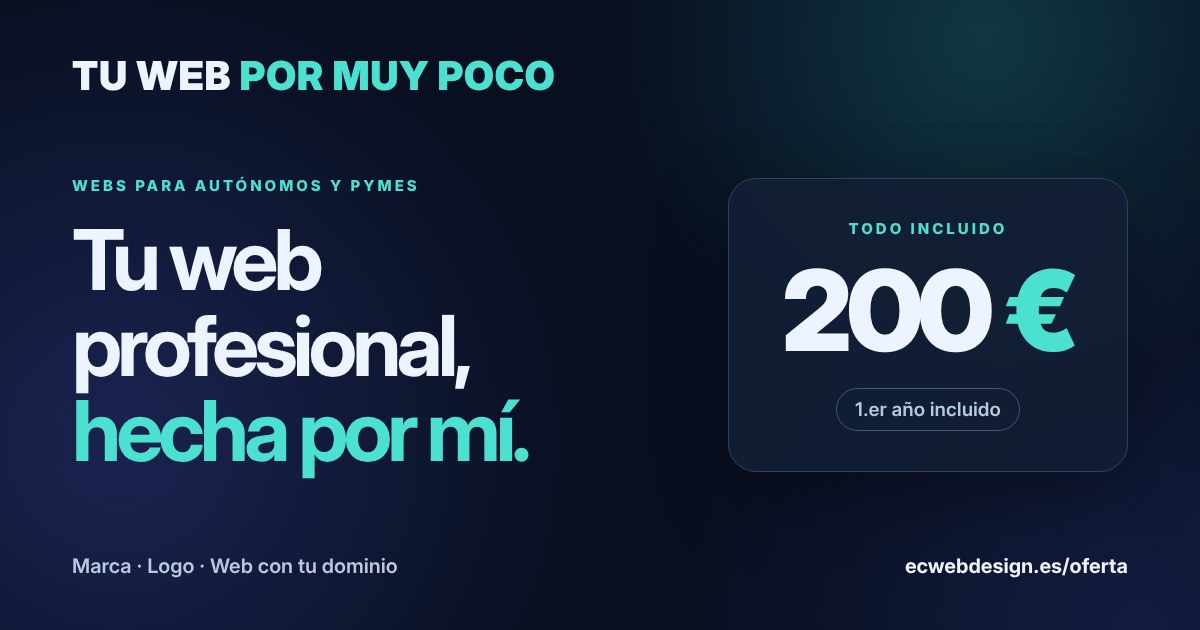
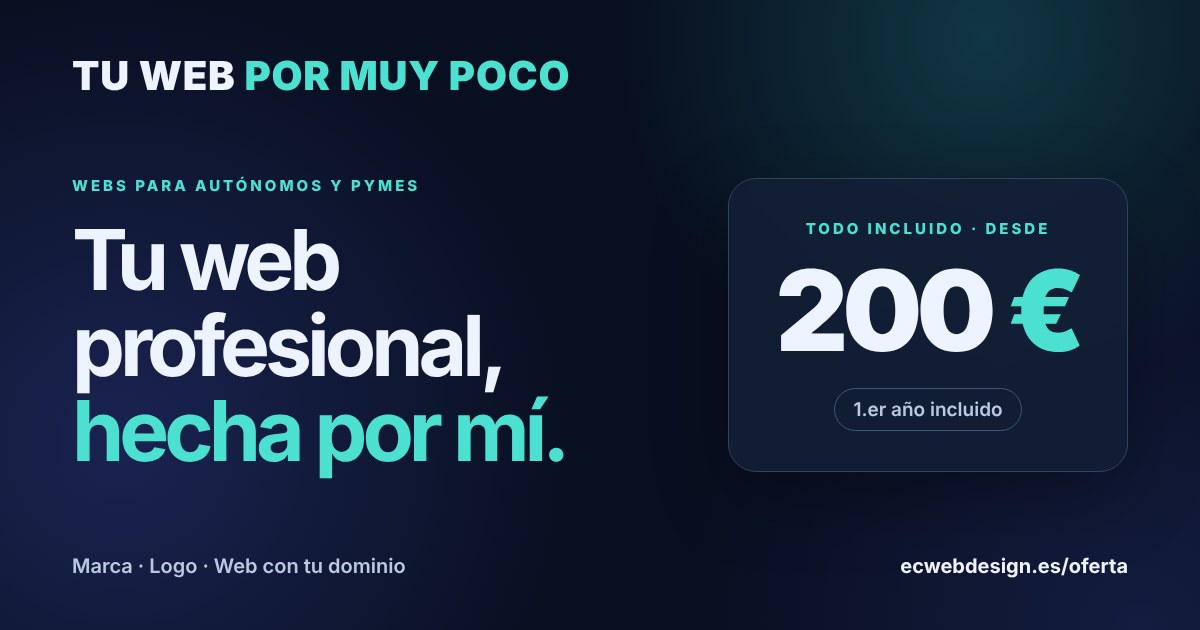
Precio «desde 200 €» en metadatos, /oferta e imágenes para compartir
Claude-Session: https://claude.ai/code/session_01NjNeR3C9iRmGEPez26Dpg9

diff --git a/oferta/index.html b/oferta/index.html
@@ -3,10 +3,10 @@
 <head>
   <meta charset="utf-8">
   <meta name="viewport" content="width=device-width, initial-scale=1">
-  <meta name="description" content="Tu web profesional por 200 €: marca, logo y página web publicada con tu dominio. Para psicólogos, nutricionistas, fisioterapeutas, peluquerías, entrenadores, otros autónomos y pymes.">
+  <meta name="description" content="Tu web profesional desde 200 €: marca, logo y página web publicada con tu dominio. Para psicólogos, nutricionistas, fisioterapeutas, peluquerías, entrenadores, otros autónomos y pymes.">
   <meta name="color-scheme" content="dark">
-  <title>Tu web profesional por 200 € | Esteban Calvo</title>
-  <meta property="og:title" content="Tu web profesional por 200 €, todo incluido">
+  <title>Tu web profesional desde 200 € | Esteban Calvo</title>
+  <meta property="og:title" content="Tu web profesional desde 200 €, todo incluido">
   <meta property="og:description" content="Marca, logo y web publicada con tu dominio. Para autónomos y pymes.">
   <meta property="og:type" content="website">
   <meta property="og:url" content="https://ecwebdesign.es/oferta/">
@@ -16,7 +16,7 @@
   <meta property="og:image:type" content="image/jpeg">
   <meta property="og:image:width" content="1200">
   <meta property="og:image:height" content="630">
-  <meta property="og:image:alt" content="Tu web por muy poco: tu web profesional, hecha por mí. Todo incluido por 200 €.">
+  <meta property="og:image:alt" content="Tu web por muy poco: tu web profesional, hecha por mí. Todo incluido desde 200 €.">
   <meta name="twitter:card" content="summary_large_image">
   <style>
     :root { color-scheme: dark; font-family: Inter, ui-sans-serif, system-ui, -apple-system, BlinkMacSystemFont, "Segoe UI", sans-serif; background: #080f20; color: #edf4ff; }
@@ -49,6 +49,7 @@
     .price-card .eyebrow { margin-bottom: 14px; }
     .price { font-size: clamp(4rem, 9vw, 5.6rem); font-weight: 900; line-height: 1; letter-spacing: -.05em; color: #edf4ff; }
     .price span { color: #4ce0d1; }
+    .price .from { font-size: 1.1rem; font-weight: 500; letter-spacing: 0; color: #b9c9df; margin-right: 8px; }
     .price-sub { display: inline-block; margin: 16px 0 22px; padding: 6px 14px; border: 1px solid #415875; border-radius: 999px; color: #b9c9df; font-size: .9rem; font-weight: 600; }
     .price-card p { margin-bottom: 8px; }
 
@@ -137,7 +138,7 @@
         </div>
         <section class="card price-card" aria-labelledby="price-title">
           <p class="eyebrow" id="price-title">Todo incluido</p>
-          <div class="price">200<span> €</span></div>
+          <div class="price"><small class="from">desde</small>200<span> €</span></div>
           <div class="price-sub">1.er año incluido</div>
           <p>Marca, logo, web publicada con tu dominio y mantenimiento el primer año.</p>
           <a class="button primary" href="https://wa.me/34653803390?text=Hola%20Esteban,%2C%20quiero%20una%20web" target="_blank" rel="noopener">Pide la tuya por WhatsApp</a>

diff --git a/en/index.html b/en/index.html
@@ -4,7 +4,7 @@
   <meta charset="utf-8">
   <meta name="viewport" content="width=device-width, initial-scale=1">
   <title>Esteban Calvo · Professional design and web for entrepreneurs</title>
-  <meta name="description" content="Brand, logo and a professional website live on your own domain for €200, all included. For freelancers, small businesses and online projects.">
+  <meta name="description" content="Brand, logo and a professional website live on your own domain from €200, all included. For freelancers, small businesses and online projects.">
   <meta name="theme-color" content="#F5F5F3">
   <link rel="icon" href="../assets/img/favicon.svg" type="image/svg+xml">
   <link rel="alternate" hreflang="es" href="https://ecwebdesign.es/">
@@ -19,7 +19,7 @@
   <meta property="og:image:type" content="image/jpeg">
   <meta property="og:image:width" content="1200">
   <meta property="og:image:height" content="630">
-  <meta property="og:image:alt" content="Esteban Calvo · Professional design and web, within every entrepreneur’s reach. All included for €200.">
+  <meta property="og:image:alt" content="Esteban Calvo · Professional design and web, within every entrepreneur’s reach. All included from €200.">
   <meta name="twitter:card" content="summary_large_image">
   <link rel="preconnect" href="https://fonts.googleapis.com">
   <link rel="preconnect" href="https://fonts.gstatic.com" crossorigin>

diff --git a/index.html b/index.html
@@ -4,7 +4,7 @@
   <meta charset="utf-8">
   <meta name="viewport" content="width=device-width, initial-scale=1">
   <title>Esteban Calvo · Diseño y web profesional para quien emprende</title>
-  <meta name="description" content="Marca, logo y web profesional publicada con tu dominio por 200 €, todo incluido. Para autónomos, pymes y negocios con local u online.">
+  <meta name="description" content="Marca, logo y web profesional publicada con tu dominio desde 200 €, todo incluido. Para autónomos, pymes y negocios con local u online.">
   <meta name="theme-color" content="#F5F5F3">
   <link rel="icon" href="assets/img/favicon.svg" type="image/svg+xml">
   <link rel="alternate" hreflang="es" href="https://ecwebdesign.es/">
@@ -19,7 +19,7 @@
   <meta property="og:image:type" content="image/jpeg">
   <meta property="og:image:width" content="1200">
   <meta property="og:image:height" content="630">
-  <meta property="og:image:alt" content="Esteban Calvo · Diseño y web profesional, al alcance de quien emprende. Todo incluido por 200 €.">
+  <meta property="og:image:alt" content="Esteban Calvo · Diseño y web profesional, al alcance de quien emprende. Todo incluido desde 200 €.">
   <meta name="twitter:card" content="summary_large_image">
   <link rel="preconnect" href="https://fonts.googleapis.com">
   <link rel="preconnect" href="https://fonts.gstatic.com" crossorigin>

diff --git a/assets/og/og-en.html b/assets/og/og-en.html
@@ -40,7 +40,7 @@
       <h1>Professional design and web, <span class="soft">within every entrepreneur’s reach.</span></h1>
     </div>
     <div class="price">
-      <span class="label">All included</span>
+      <span class="label">All included · from</span>
       <div class="amount"><small>€</small>200</div>
       <span class="badge">First year included</span>
     </div>

diff --git a/assets/og/og.html b/assets/og/og.html
@@ -40,7 +40,7 @@
       <h1>Diseño y web profesional, <span class="soft">al alcance de quien emprende.</span></h1>
     </div>
     <div class="price">
-      <span class="label">Todo incluido</span>
+      <span class="label">Todo incluido · desde</span>
       <div class="amount">200<small>€</small></div>
       <span class="badge">1.er año incluido</span>
     </div>

diff --git a/assets/og/og-oferta.html b/assets/og/og-oferta.html
@@ -34,7 +34,7 @@
       <h2>Tu web profesional,<span class="accent"> hecha por mí.</span></h2>
     </div>
     <div class="card">
-      <p class="eyebrow">Todo incluido</p>
+      <p class="eyebrow">Todo incluido · desde</p>
       <div class="price">200<span class="accent"> €</span></div>
       <div class="sub">1.er año incluido</div>
     </div>

diff --git a/README.md b/README.md
@@ -4,5 +4,5 @@ Web de Esteban Calvo · Diseño y web — https://ecwebdesign.es
 
 - `/` — web principal (castellano)
 - `/en/` — versión en inglés
-- `/oferta/` — landing de la oferta "Tu web por 200 €"
+- `/oferta/` — landing de la oferta "Tu web desde 200 €"
 - `assets/css/tokens.css` — colores, tipografía y espaciado del manual de marca
